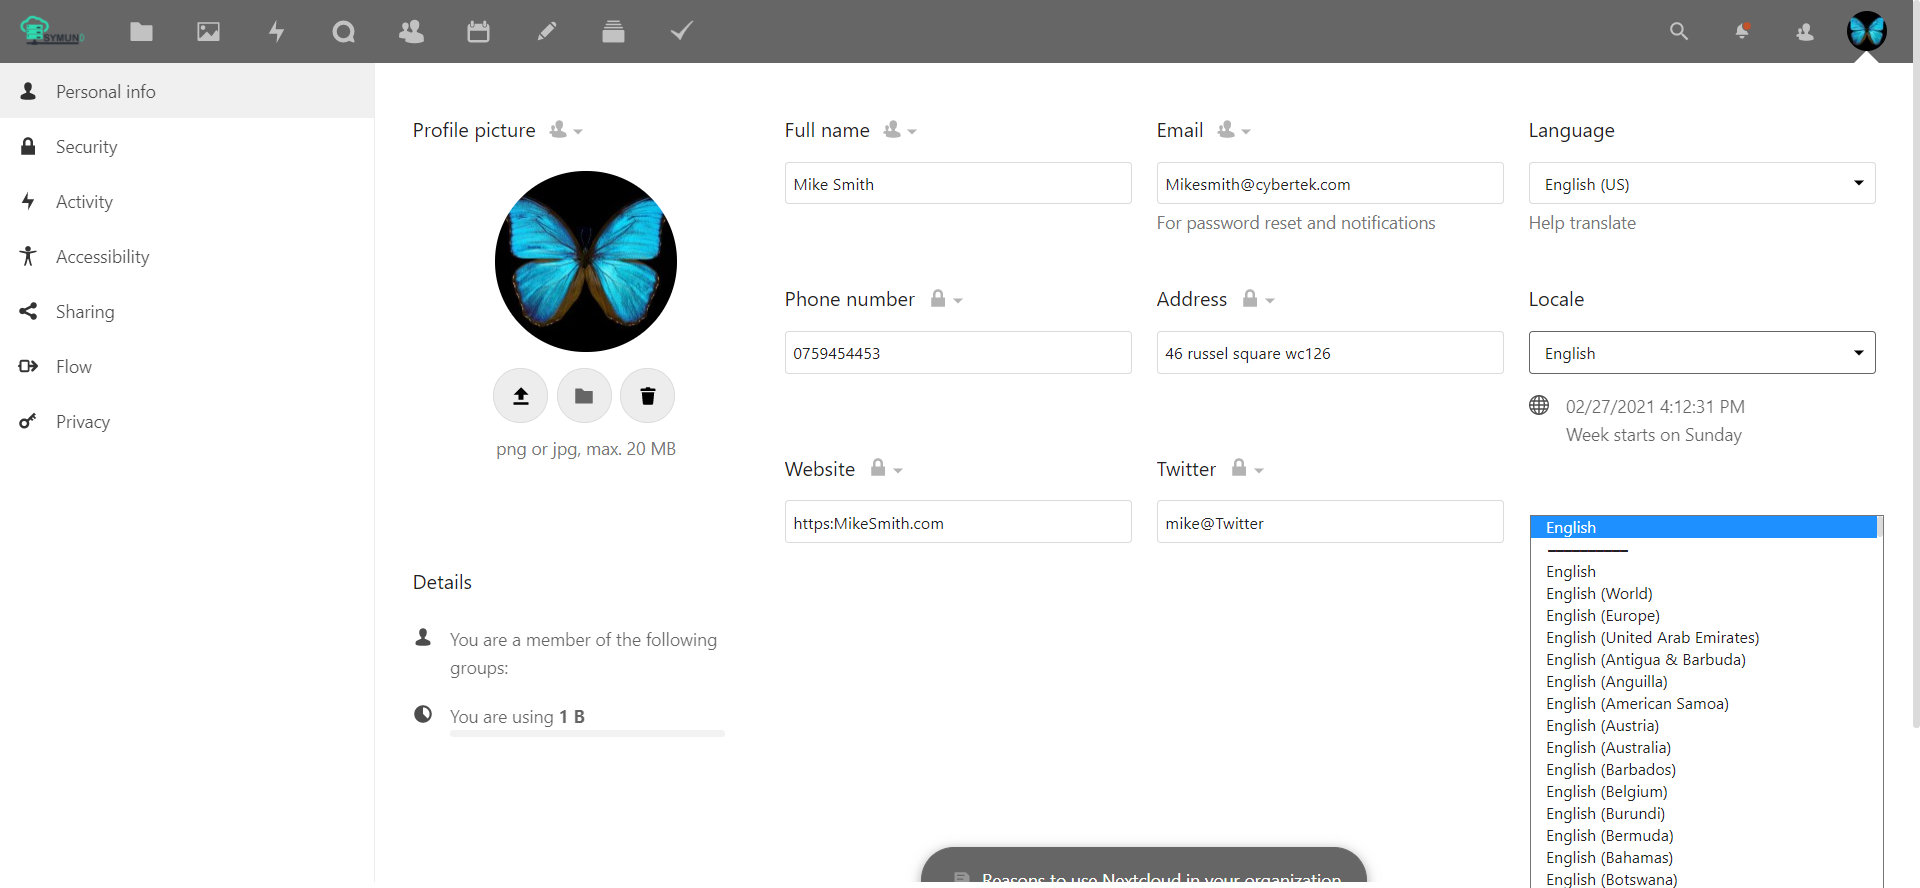
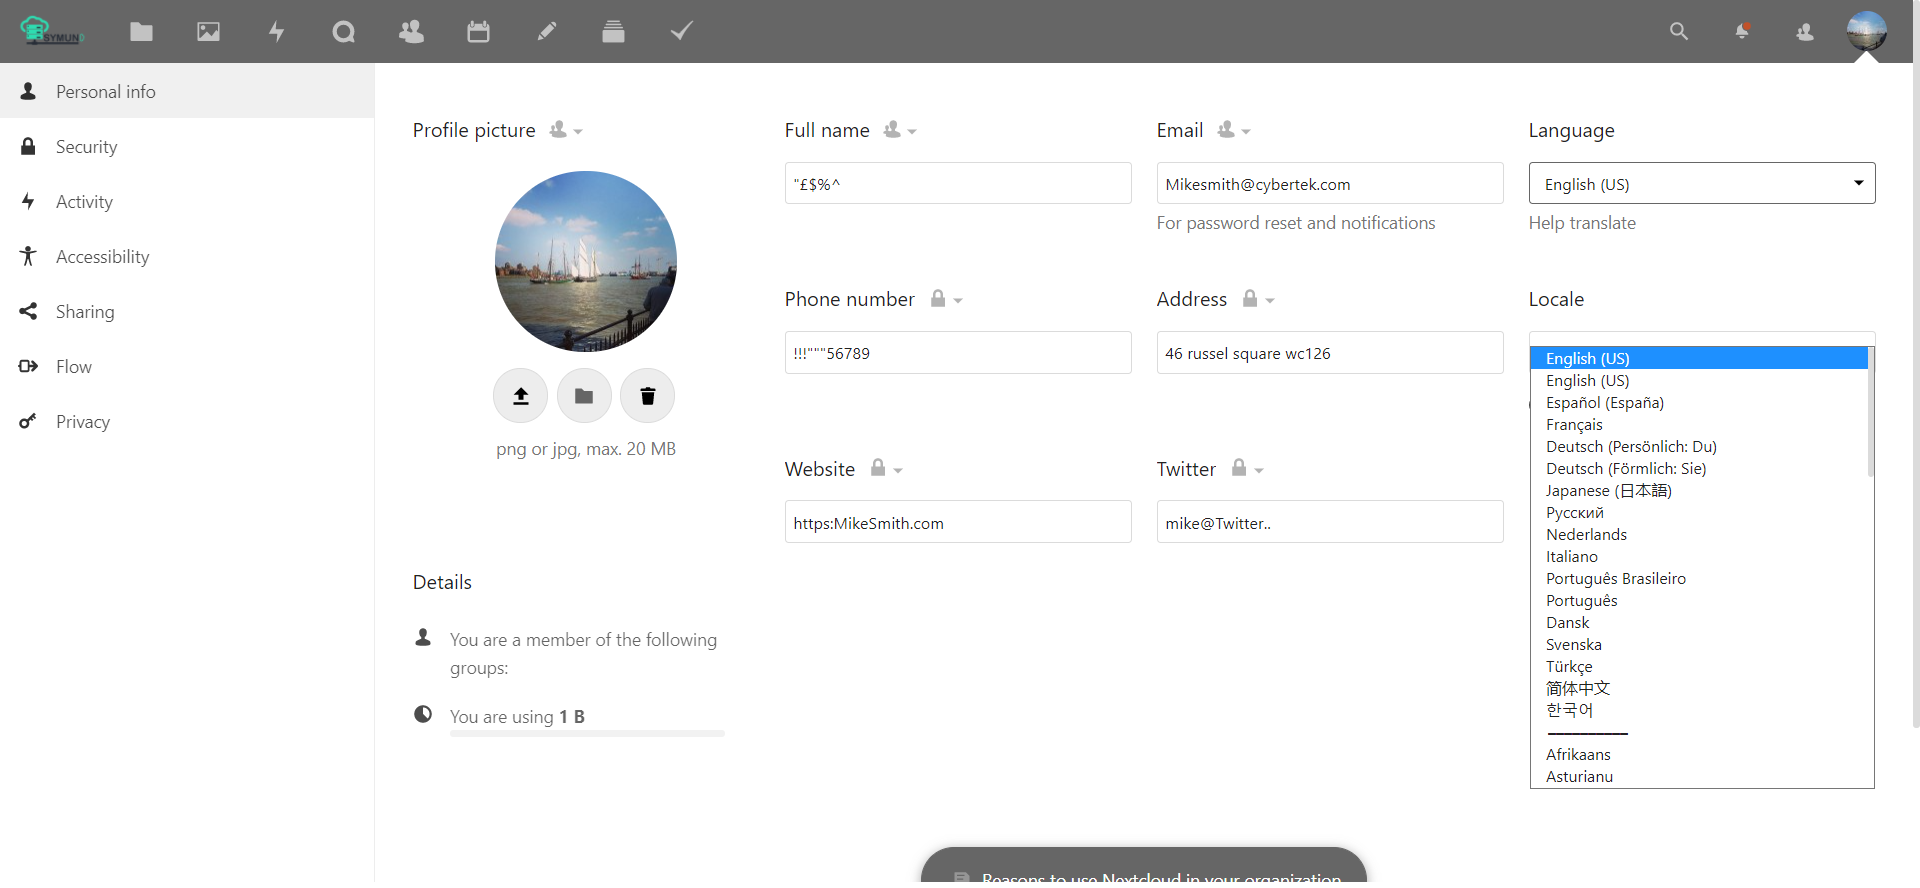
step defs all done

diff --git a/target/default-html-reports/report.js b/target/default-html-reports/report.js
@@ -192,21 +192,11 @@ formatter.result({
   "status": "passed"
 });
 formatter.step({
-  "name": "the user see clicks upload photo button and uploads image",
+  "name": "the user  clicks upload photo button and uploads another image",
   "keyword": "And "
 });
 formatter.match({
-  "location": "com.symund.step_definitions.ProfilesettingStepDefs.the_user_see_clicks_upload_photo_button_and_uploads_image()"
-});
-formatter.result({
-  "status": "passed"
-});
-formatter.step({
-  "name": "\"Invalid info\" message should  be displayed",
-  "keyword": "Then "
-});
-formatter.match({
-  "location": "com.symund.step_definitions.ProfilesettingStepDefs.message_should_be_displayed(java.lang.String)"
+  "location": "com.symund.step_definitions.ProfilesettingStepDefs.the_user_clicks_upload_photo_button_and_uploads_another_image()"
 });
 formatter.result({
   "status": "passed"

diff --git a/src/test/java/com/symund/step_definitions/ProfilesettingStepDefs.java b/src/test/java/com/symund/step_definitions/ProfilesettingStepDefs.java
@@ -67,15 +67,6 @@ public class ProfilesettingStepDefs {
         profilesettingPage.submitPhotoButton.click();
 
 
-
-
-
-
-
-
-
-
-
     }
     @Then("all the changes should be saved")
     public void all_the_changes_should_be_saved() {
@@ -87,12 +78,23 @@ public class ProfilesettingStepDefs {
 
 
     }
+    @When("the user  clicks upload photo button and uploads another image")
+    public void the_user_clicks_upload_photo_button_and_uploads_another_image() {
 
-    @Then("{string} message should  be displayed")
-    public void message_should_be_displayed(String string) {
+        BrowserUtils.waitFor(6);
+        String myprojectPath=(System.getProperty("user.dir"));
+        String filePath="src/test/resources/FB_IMG_1593497524603.jpg";
+        String fullPath=myprojectPath+"/"+filePath;
+        profilesettingPage.uploadFromLocal.sendKeys(fullPath);
+        BrowserUtils.waitFor(6);
+        profilesettingPage.submitPhotoButton.click();
+
 
     }
 
-}
+
+    }
+
+
 
 
